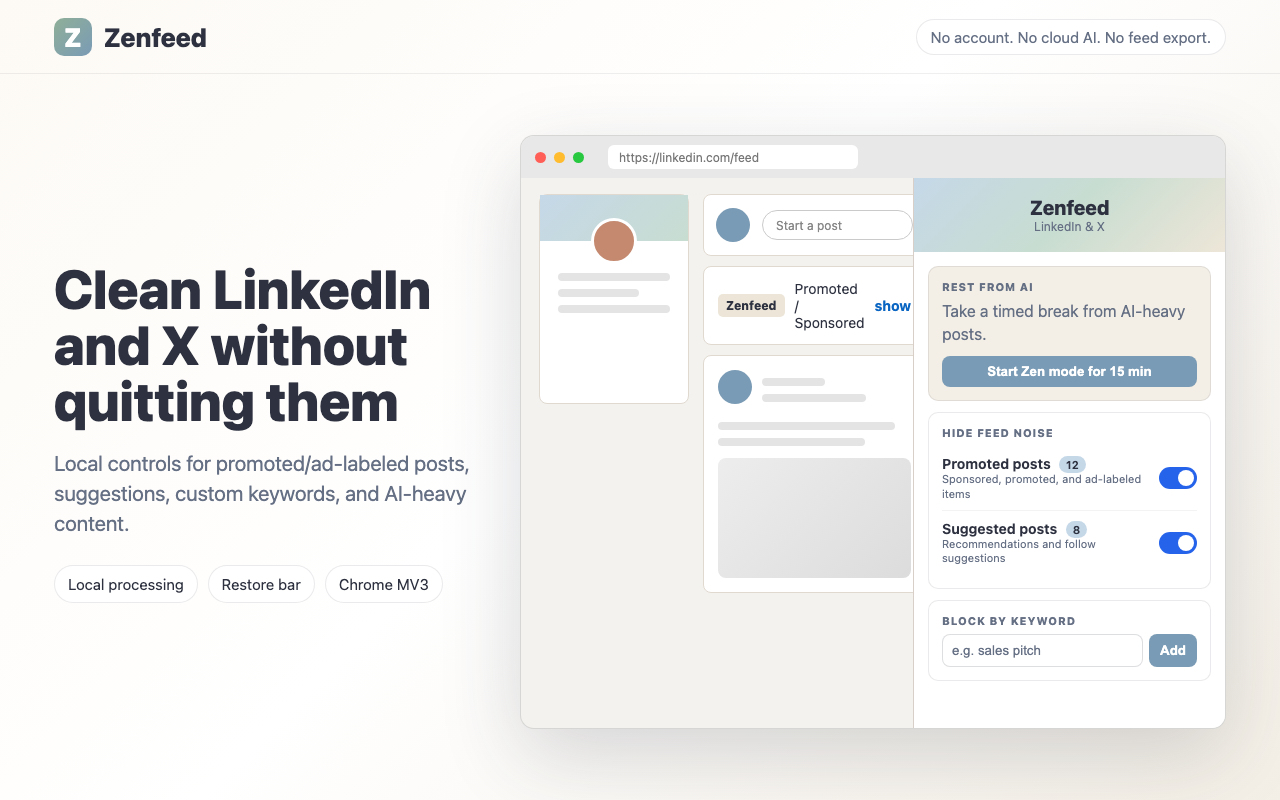
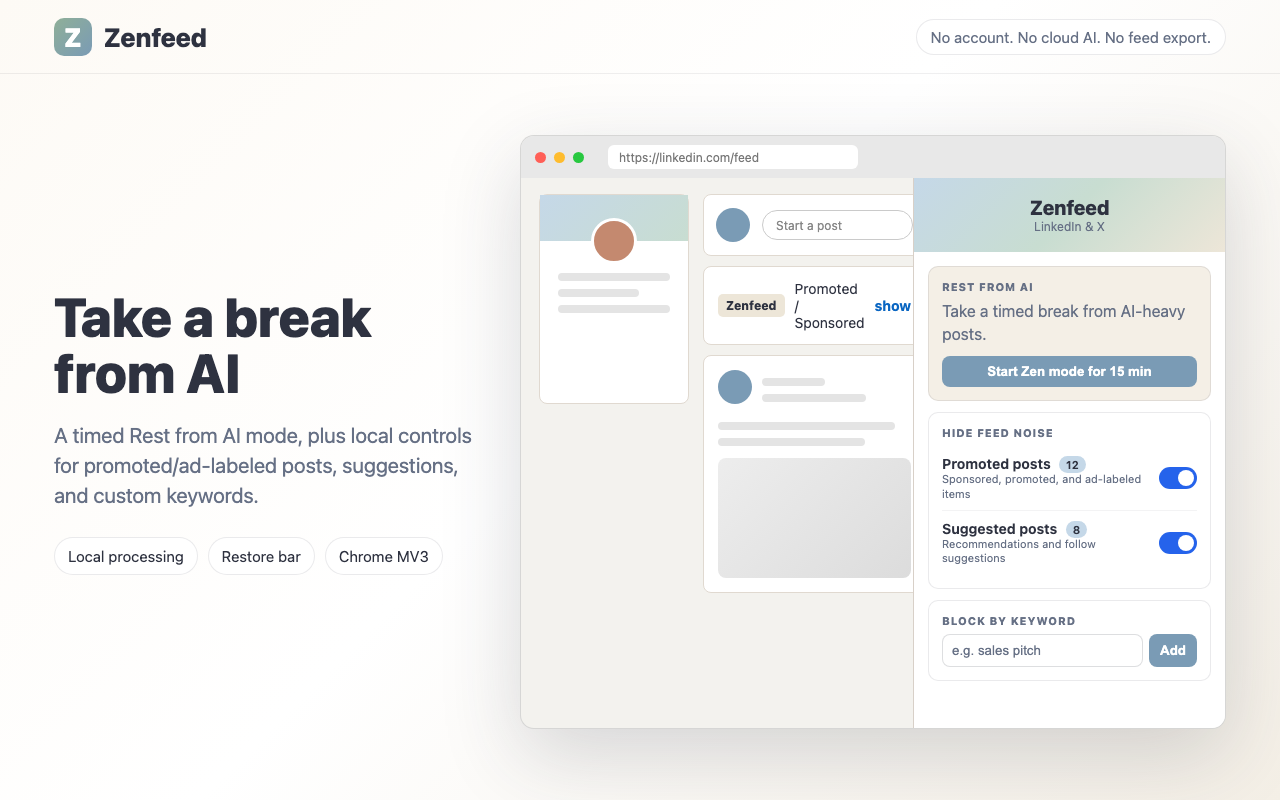
Reposition messaging around Rest from AI
Lead with the Rest from AI timed focus mode instead of "without
quitting them" framing, and refresh the promo tile / popup screenshot
to match.

Changed region(s): [[0.0312, 0.3438, 0.375, 0.75]]

diff --git a/index.html b/index.html
@@ -3,18 +3,18 @@
 <head>
   <meta charset="UTF-8" />
   <meta name="viewport" content="width=device-width, initial-scale=1.0" />
-  <title>Zenfeed — Clean LinkedIn and X without quitting them</title>
-  <meta name="description" content="Zenfeed is a Chrome extension for cleaner professional feeds: local LinkedIn and X controls for promoted posts, suggestions, keywords, and AI-heavy content." />
-  <meta property="og:title" content="Zenfeed — Clean LinkedIn and X without quitting them" />
-  <meta property="og:description" content="Local feed control for LinkedIn and X: less noise, keyword filters, and a timed focus mode for AI-heavy content." />
+  <title>Zenfeed — Take a break from AI on LinkedIn and X</title>
+  <meta name="description" content="Zenfeed is a Chrome extension with a timed Rest from AI mode for LinkedIn and X, plus local controls to clear out promoted posts, suggestions, and keyword noise." />
+  <meta property="og:title" content="Zenfeed — Take a break from AI on LinkedIn and X" />
+  <meta property="og:description" content="Rest from AI on a timer, and a cleaner feed the rest of the time — local controls for promoted posts, suggestions, and keywords." />
   <meta property="og:type" content="website" />
   <meta property="og:url" content="https://apputhegreat.github.io/zenfeed-site/" />
   <meta property="og:image" content="https://apputhegreat.github.io/zenfeed-site/assets/promotional/marquee-promo-tile.png" />
   <meta property="og:image:width" content="1400" />
   <meta property="og:image:height" content="560" />
   <meta name="twitter:card" content="summary_large_image" />
-  <meta name="twitter:title" content="Zenfeed — Clean LinkedIn and X without quitting them" />
-  <meta name="twitter:description" content="Local feed control for LinkedIn and X: less noise, keyword filters, and a timed focus mode for AI-heavy content." />
+  <meta name="twitter:title" content="Zenfeed — Take a break from AI on LinkedIn and X" />
+  <meta name="twitter:description" content="Rest from AI on a timer, and a cleaner feed the rest of the time — local controls for promoted posts, suggestions, and keywords." />
   <meta name="twitter:image" content="https://apputhegreat.github.io/zenfeed-site/assets/promotional/marquee-promo-tile.png" />
   <style>
     *, *::before, *::after { box-sizing: border-box; margin: 0; padding: 0; }
@@ -630,9 +630,9 @@
         <img src="icon-default.svg" width="36" height="36" alt="Zenfeed" />
         <span class="hero-logo-text">Zenfeed</span>
       </a>
-      <h1>Clean LinkedIn and X<br /><em>without quitting them.</em></h1>
+      <h1>Take a break<br /><em>from AI.</em></h1>
       <p class="hero-sub">
-        Zenfeed gives professionals local feed controls for promoted posts, suggestions, keywords, and AI-heavy content on LinkedIn and X.
+        A timed Rest from AI mode for LinkedIn and X, plus local controls to clear out promoted posts, suggestions, and keyword noise.
       </p>
       <div class="cta-group">
         <a href="#add-extension-mobile" class="btn-primary" id="add-extension-mobile">
@@ -660,9 +660,9 @@
             <img src="icon-default.svg" width="40" height="40" alt="Zenfeed" />
             <span class="hero-logo-text">Zenfeed</span>
           </a>
-          <h1>Clean LinkedIn and X<br /><em>without quitting them.</em></h1>
+          <h1>Take a break<br /><em>from AI.</em></h1>
           <p class="hero-sub">
-            Zenfeed gives professionals local feed controls for promoted posts, suggestions, keywords, and AI-heavy content on LinkedIn and X.
+            A timed Rest from AI mode for LinkedIn and X, plus local controls to clear out promoted posts, suggestions, and keyword noise.
           </p>
           <div class="cta-group">
             <a href="#add-extension" class="btn-primary" id="add-extension">
@@ -1041,7 +1041,7 @@
       <img src="icon-default.svg" width="24" height="24" alt="" style="filter:brightness(0) invert(1);opacity:0.7;" />
       Zenfeed
     </a>
-    <span class="footer-text">&copy; 2025 Zenfeed. Made for calmer feeds.</span>
+    <span class="footer-text">&copy; 2026 Zenfeed. Made for calmer feeds.</span>
     <div class="footer-links">
       <a href="privacy.html">Privacy</a>
       <a href="support.html">Support</a>